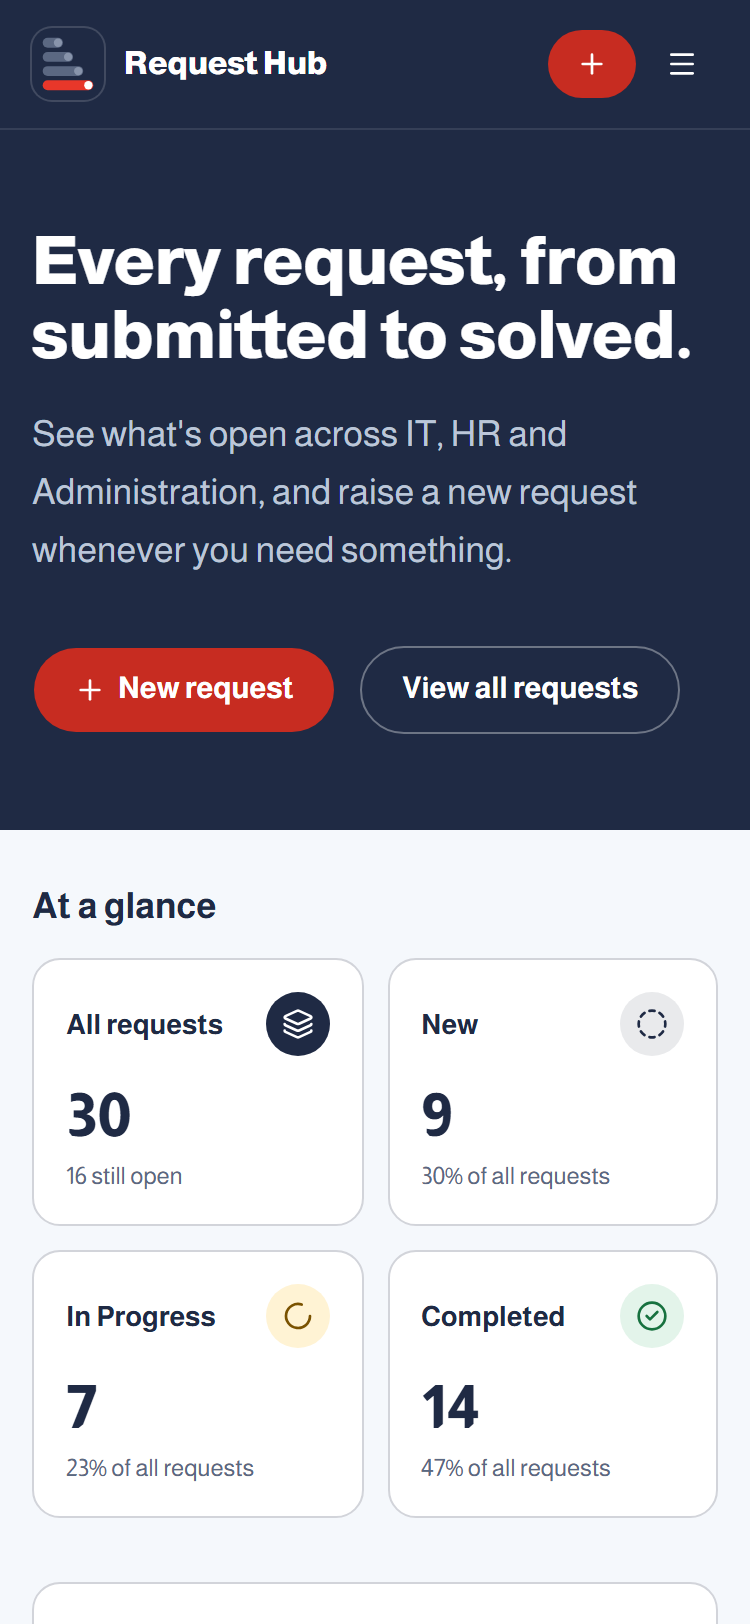
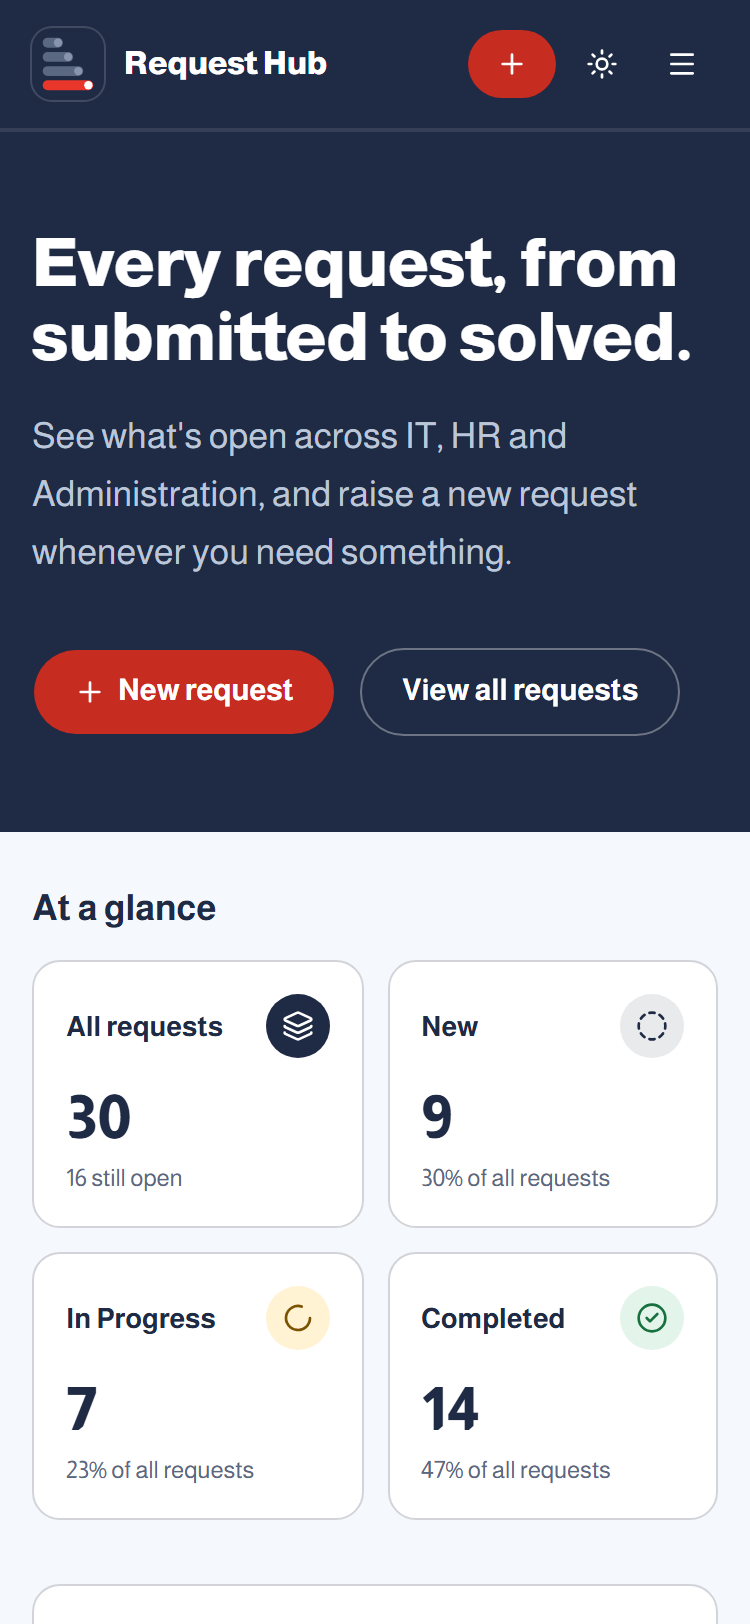
docs: dark-mode screenshot and refreshed live screenshots
Retaken from the live site after the dark-mode deploy, so the header
shows the theme menu; adds the dark dashboard to the README.

diff --git a/README.md b/README.md
@@ -14,8 +14,9 @@ IT, HR and Administration.
 </p>
 
 <details>
-<summary>More screenshots: requests list and new-request form (desktop)</summary>
+<summary>More screenshots: dark mode, requests list and new-request form (desktop)</summary>
 
+![Dashboard in dark mode](docs/screenshots/dashboard-dark.png)
 ![Requests list with status chips, filters and the department routing tabs](docs/screenshots/requests-desktop.png)
 ![New request form with department and priority cards](docs/screenshots/new-request-desktop.png)
 
